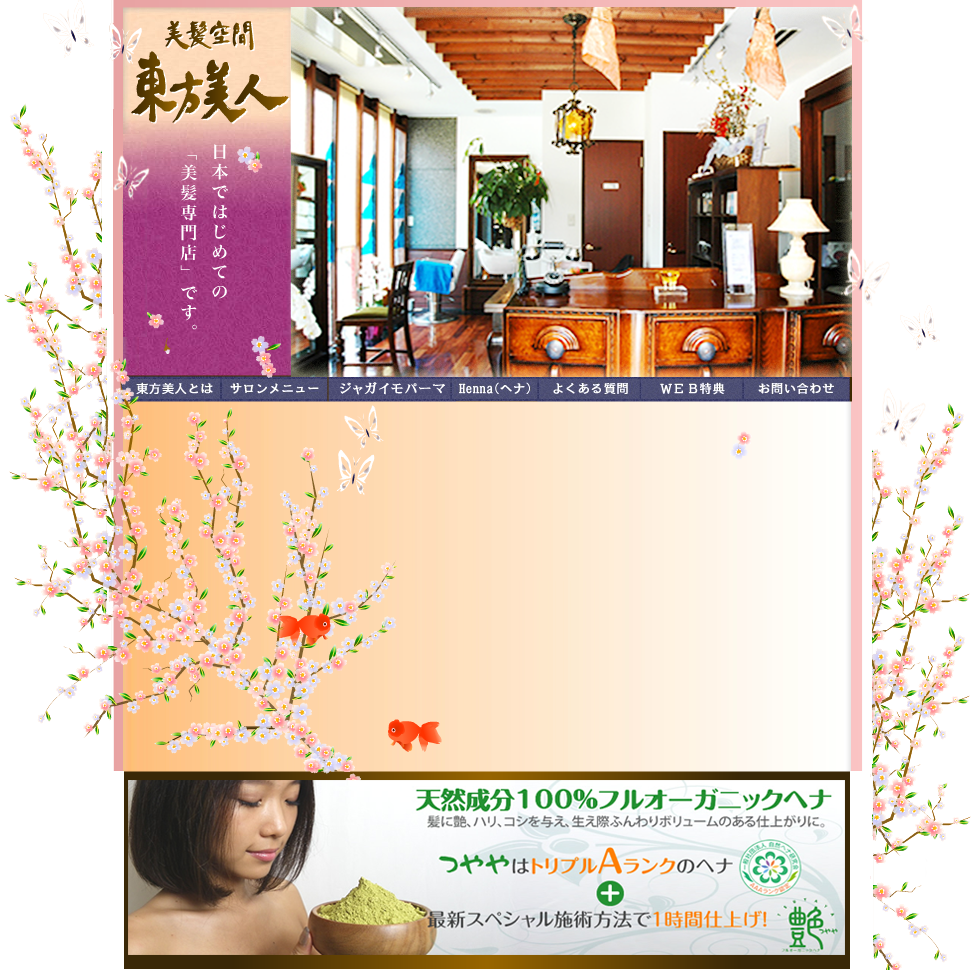
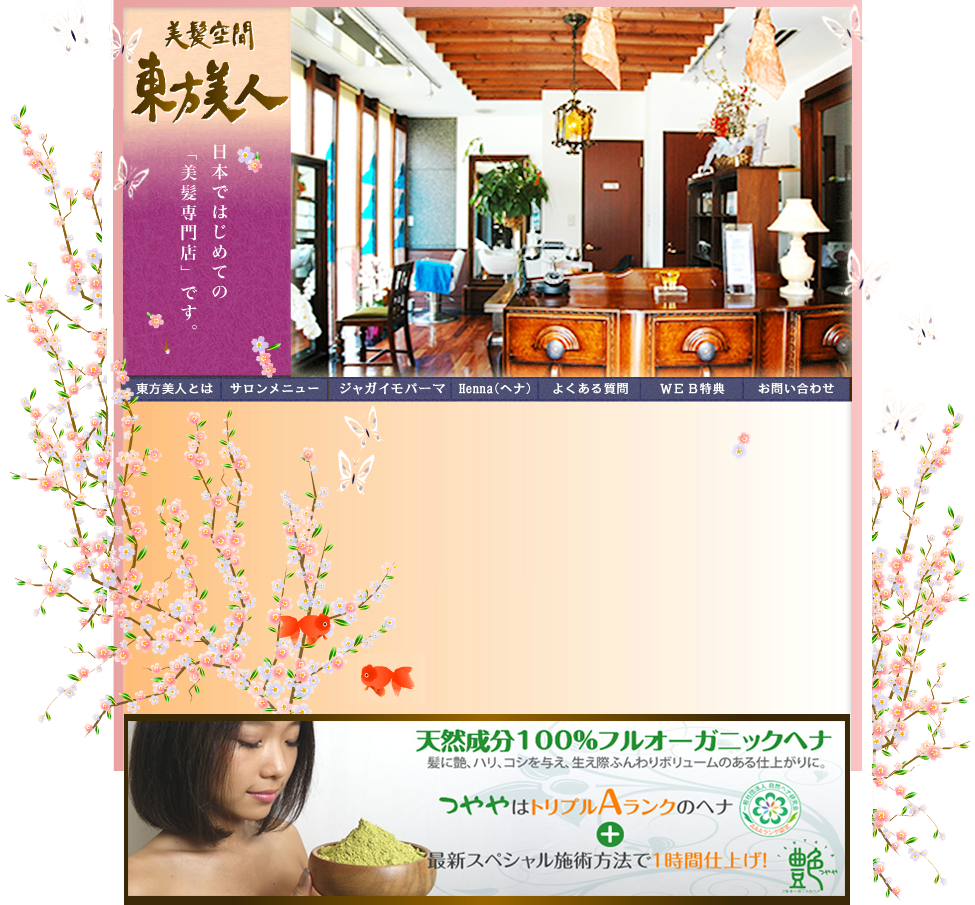
a

diff --git a/index.html b/index.html
@@ -124,7 +124,7 @@
                 <a class="fancybox fancybox.iframe" id="infomation" href="infomation20090210.html?v=4">html</a>
 
 
-                <img src="images/top_ipad_image.png" width="975" height="970" border="0" usemap="#Map" />
+                <img src="images/top_ipad_image.png" width="975" height="905" border="0" usemap="#Map" />
                 <map name="Map" id="Map">
                     <area shape="rect" coords="223,376,326,398" href="salon_menus/index.html" />
                     <area shape="rect" coords="749,377,840,400" href="info/index.html" /><area shape="rect" coords="647,377,738,400" href="speciarite/index.html" /><area shape="rect" coords="544,376,635,399" href="qanda_and_other/index.html" /><area shape="rect" coords="444,376,535,399" href="hennna/index.html" /><area shape="rect" coords="335,377,439,400" href="progress/index.html" />
